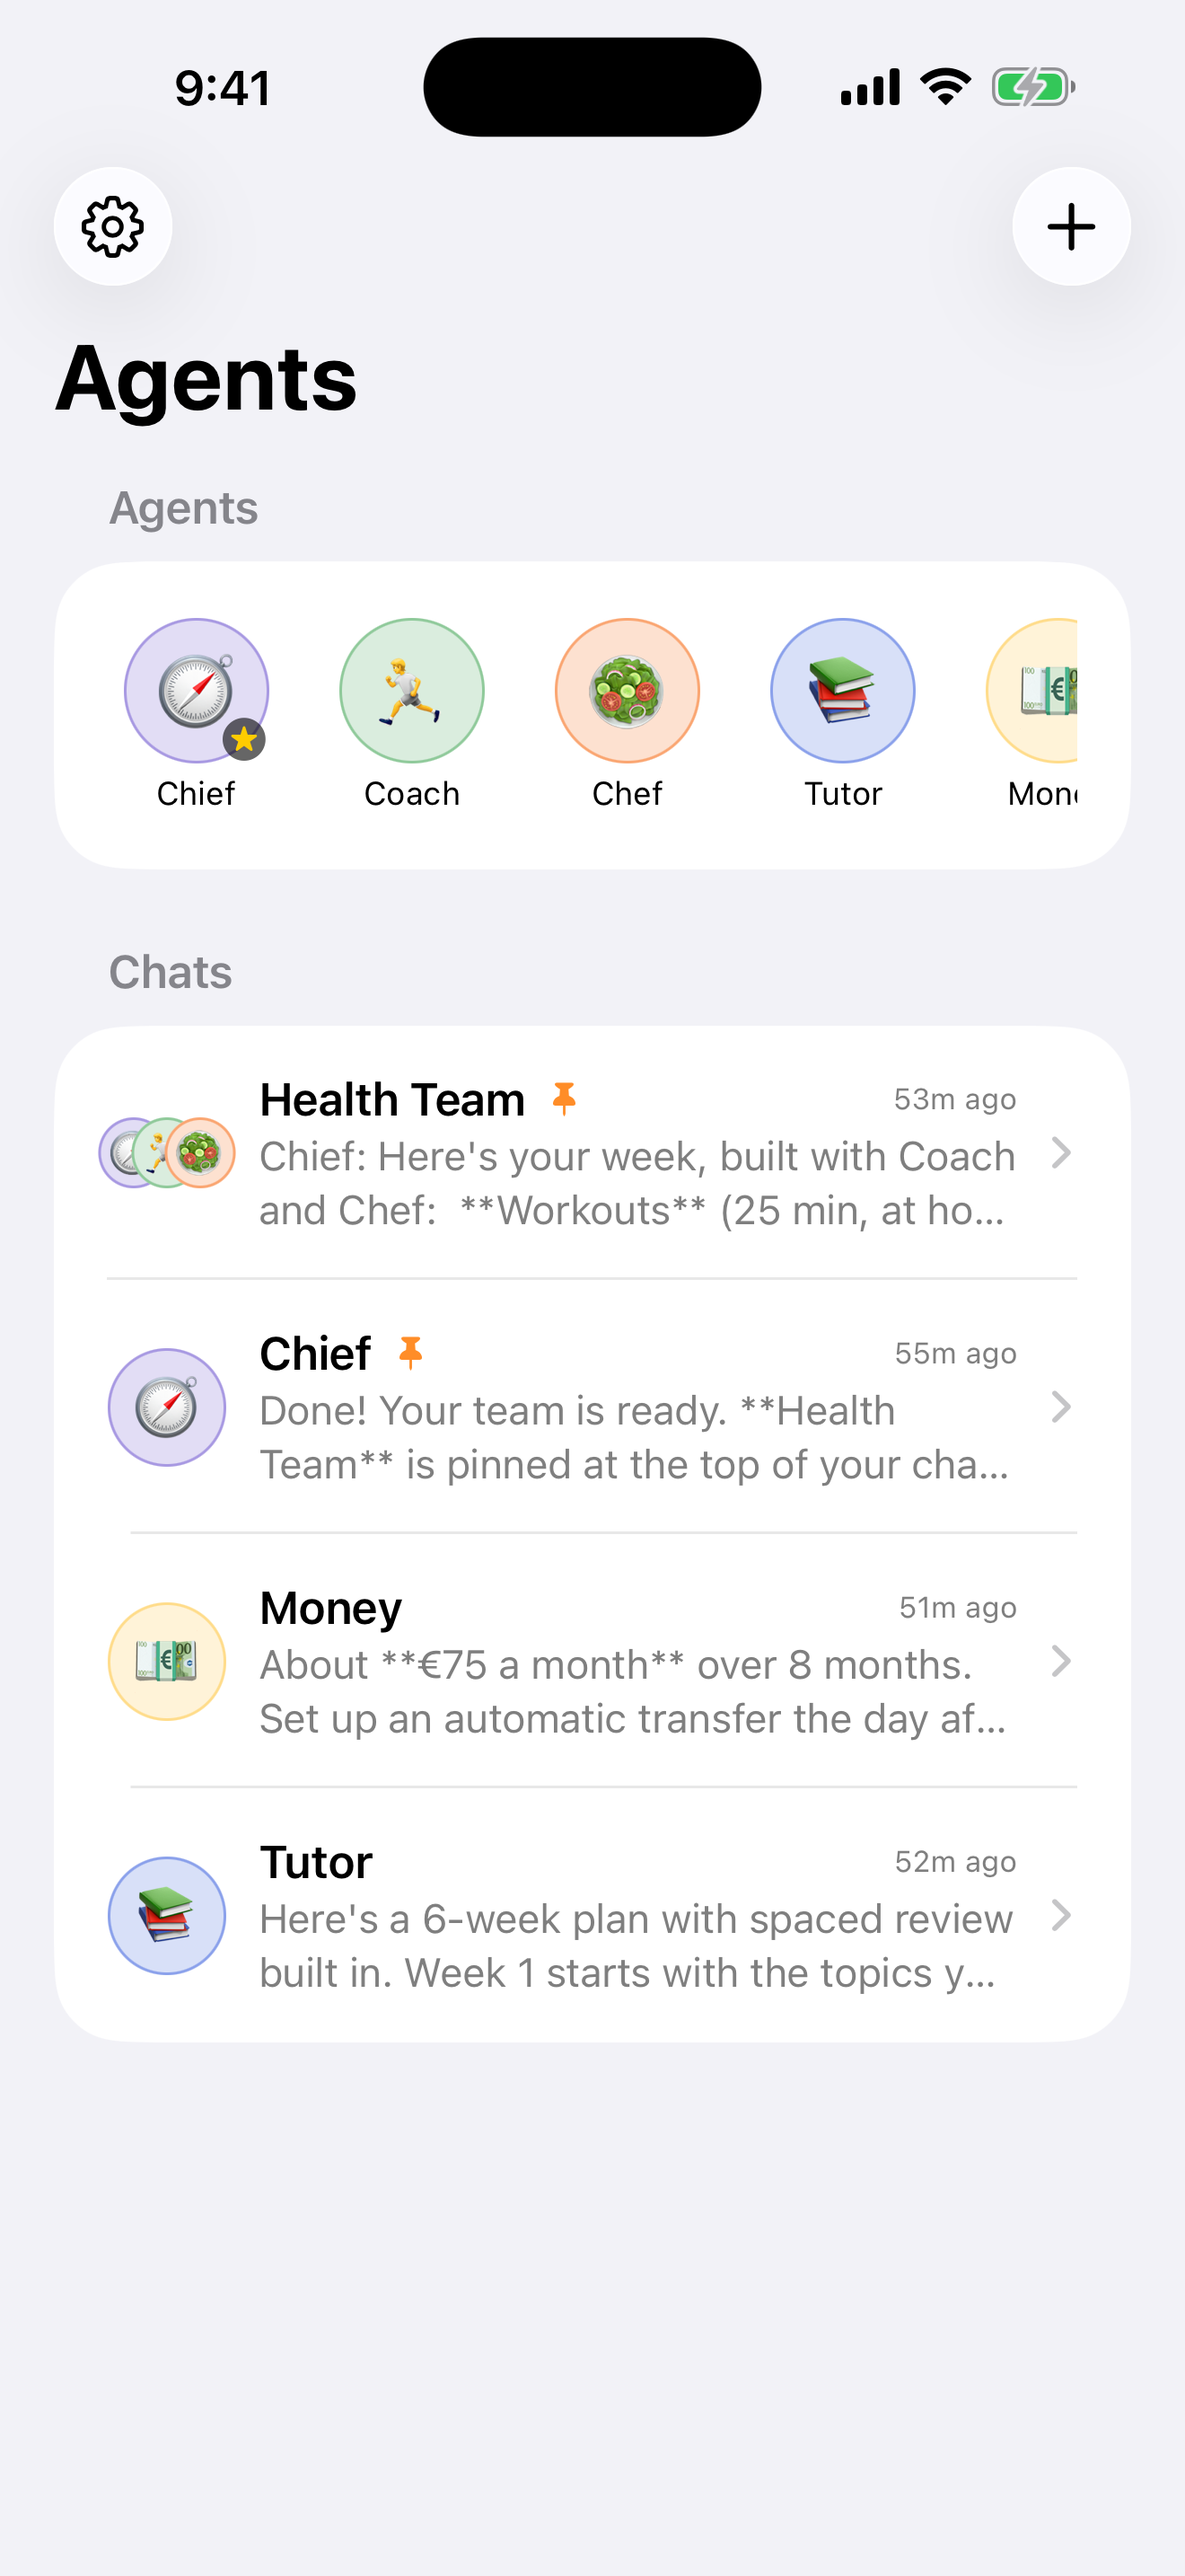
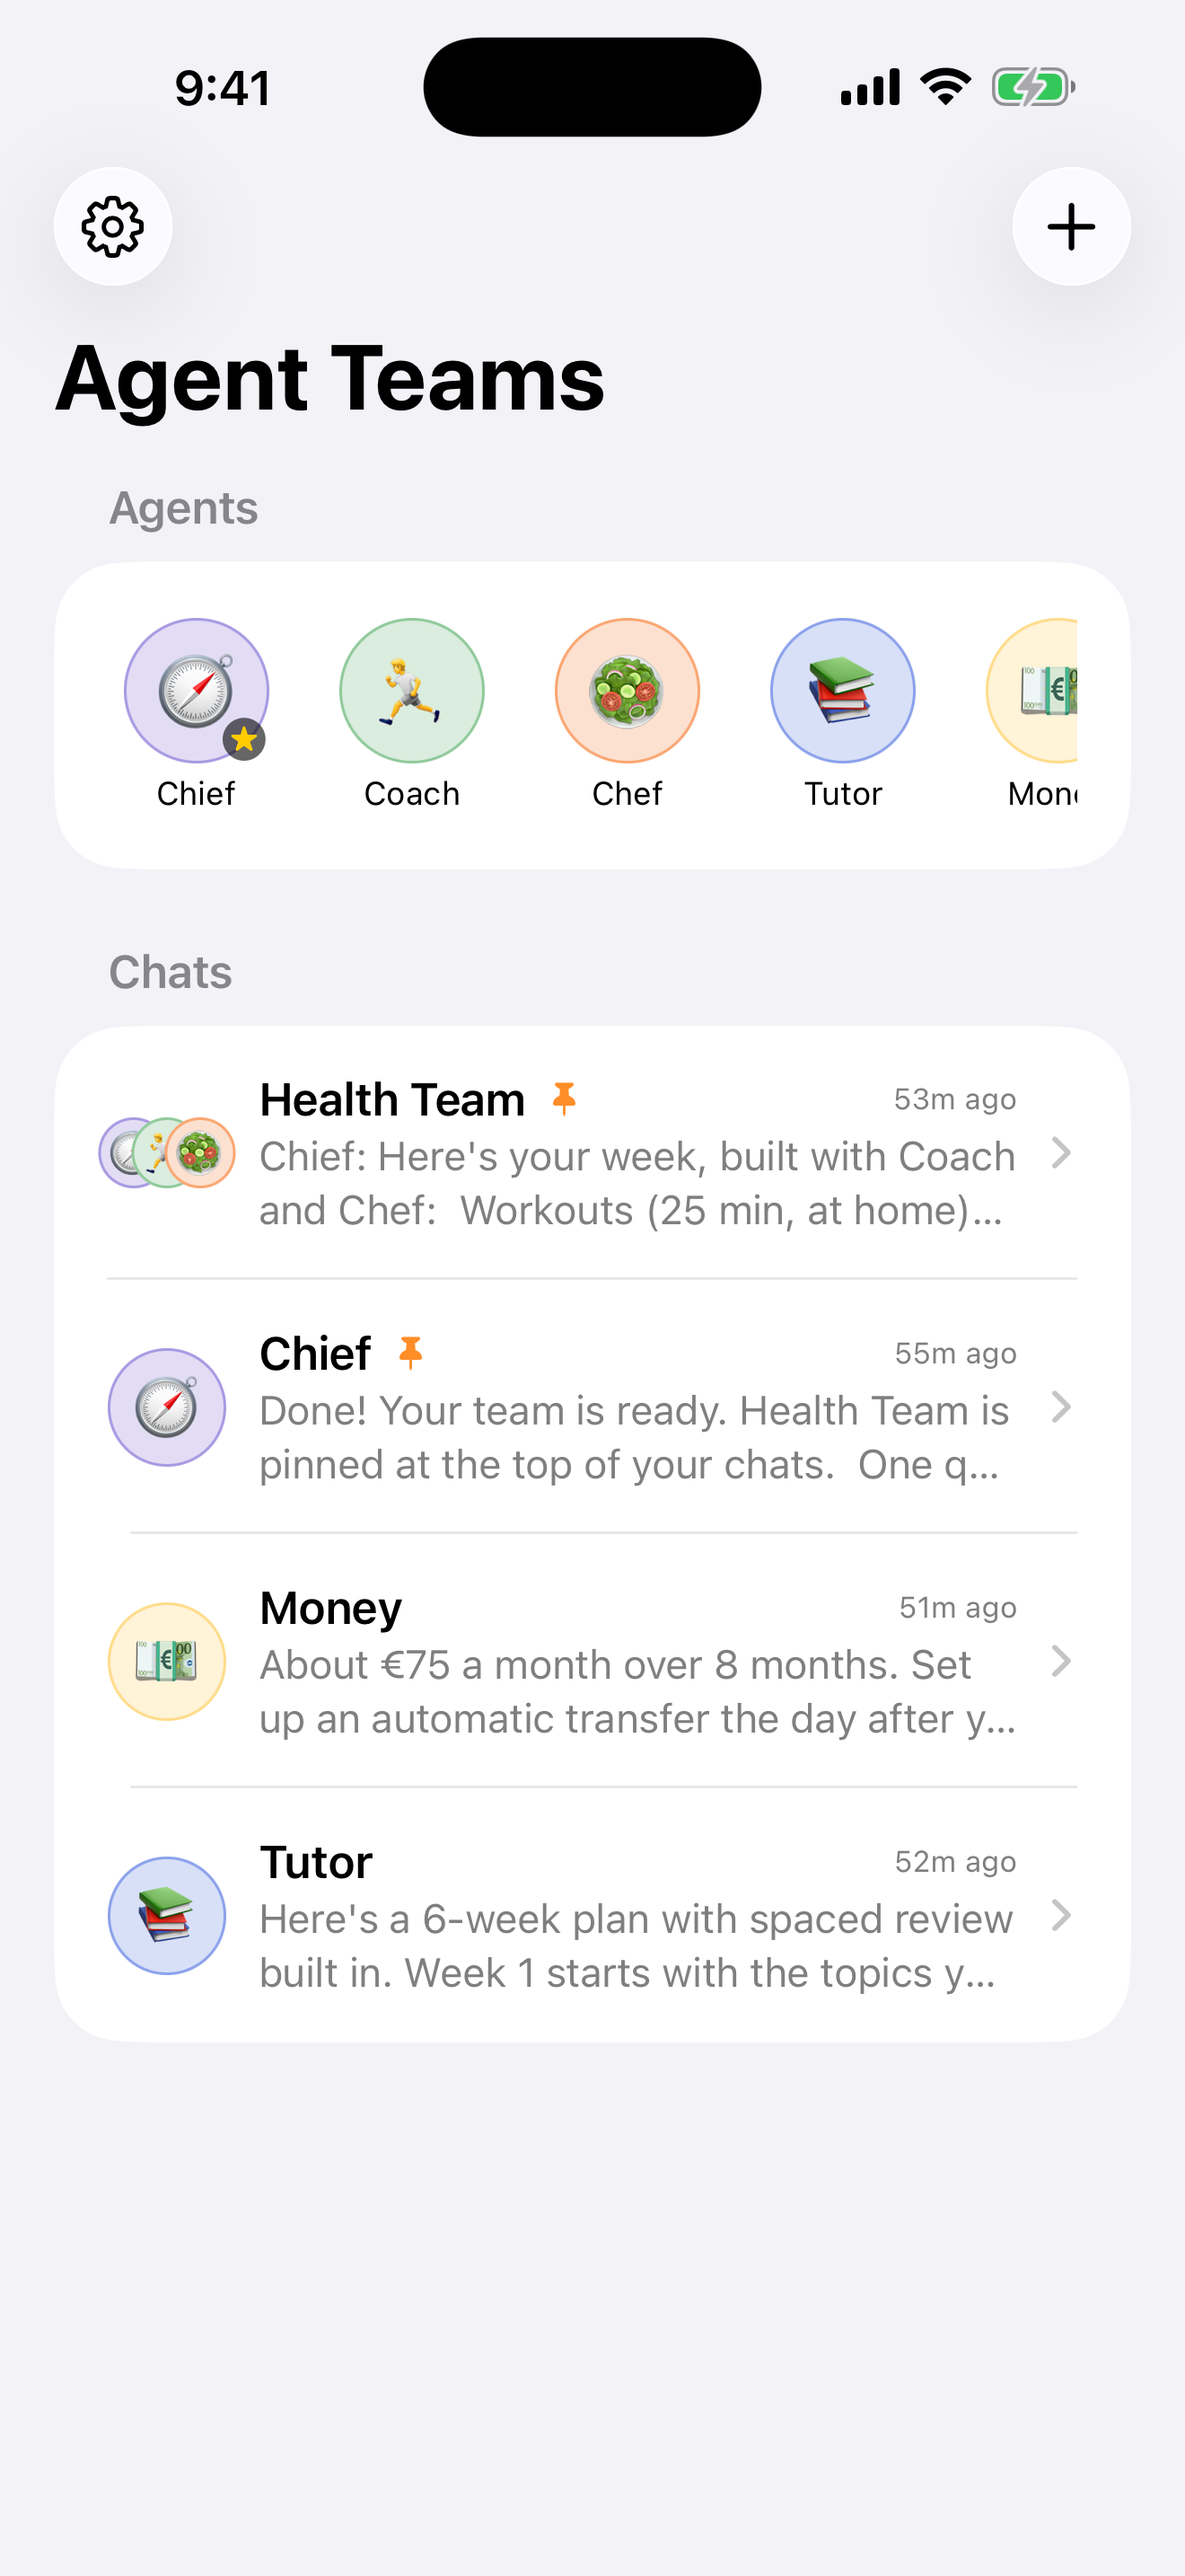
Agents: rename to Agent Teams

diff --git a/apps/Agents/site/public/privacy.html b/apps/Agents/site/public/privacy.html
@@ -3,8 +3,8 @@
 <head>
 <meta charset="utf-8">
 <meta name="viewport" content="width=device-width, initial-scale=1">
-<title>Privacy Policy · Agents</title>
-<meta name="description" content="Privacy policy for the Agents app for iPhone, iPad and Mac by Pep Secanell.">
+<title>Privacy Policy · Agent Teams</title>
+<meta name="description" content="Privacy policy for the Agent Teams app for iPhone, iPad and Mac by Pep Secanell.">
 <style>
   :root { --ground:#F6F5FA; --ink:#16131F; --muted:#5B5868; --accent:#5B45B8; --line:#DEDAEA; --card:#FFFFFF; }
   * { box-sizing:border-box; }
@@ -31,13 +31,13 @@
 </head>
 <body>
 <header class="topbar">
-  <a class="home" href="/">🧭 Agents</a>
+  <a class="home" href="/">🧭 Agent Teams</a>
   <a class="back" href="/">Home</a>
 </header>
 <main>
   <header>
     <h1>Privacy Policy</h1>
-    <p>Agents for iPhone, iPad and Mac · Effective 3 October 2026</p>
+    <p>Agent Teams for iPhone, iPad and Mac · Effective 3 October 2026</p>
   </header>
 
   <div class="summary">
@@ -50,10 +50,10 @@
   </div>
 
   <h2>Who is responsible</h2>
-  <p>Agents is made by Pep Secanell, an independent developer based in Spain. For the purposes of the EU General Data Protection Regulation (GDPR), I am the data controller for anything this policy covers. You can reach me at <a href="mailto:keoly.app@gmail.com">keoly.app@gmail.com</a>.</p>
+  <p>Agent Teams is made by Pep Secanell, an independent developer based in Spain. For the purposes of the EU General Data Protection Regulation (GDPR), I am the data controller for anything this policy covers. You can reach me at <a href="mailto:keoly.app@gmail.com">keoly.app@gmail.com</a>.</p>
 
   <h2>What I collect</h2>
-  <p>Nothing. Agents has no sign-in, no user accounts of mine, no analytics, no advertising, no crash-reporting services and no third-party tracking code. There is no server of mine involved in using the app.</p>
+  <p>Nothing. Agent Teams has no sign-in, no user accounts of mine, no analytics, no advertising, no crash-reporting services and no third-party tracking code. There is no server of mine involved in using the app.</p>
 
   <h2>What the app stores, and where</h2>
   <p>The app stores your agents (their names, instructions and settings), your chats, and the facts saved in "About me". This data lives:</p>
@@ -80,10 +80,10 @@
   <p>Any AI costs are billed to you by your provider. The app itself is free.</p>
 
   <h2>Health, money and other advice</h2>
-  <p>Agents is a general-purpose AI assistant. Its answers can be wrong and are not medical, legal or financial advice. Talk to a qualified professional for decisions that matter.</p>
+  <p>Agent Teams is a general-purpose AI assistant. Its answers can be wrong and are not medical, legal or financial advice. Talk to a qualified professional for decisions that matter.</p>
 
   <h2>Children</h2>
-  <p>Agents is not aimed at children. Because it has no accounts and I collect no data, I don't knowingly collect data from anyone, including children. AI providers set their own minimum ages; please check their terms.</p>
+  <p>Agent Teams is not aimed at children. Because it has no accounts and I collect no data, I don't knowingly collect data from anyone, including children. AI providers set their own minimum ages; please check their terms.</p>
 
   <h2>Your rights and deleting your data</h2>
   <p>Under the GDPR you have the right to access, correct, delete, restrict or object to the processing of your personal data, and to data portability. Since I don't hold any data about you, there is normally nothing for me to hand over or delete. In practice:</p>
@@ -99,7 +99,7 @@
 
   <footer>
     <a href="/support.html">Support</a><a href="mailto:keoly.app@gmail.com">keoly.app@gmail.com</a>
-    <p>Agents · © 2026 Pep Secanell</p>
+    <p>Agent Teams · © 2026 Pep Secanell</p>
   </footer>
 </main>
 </body>

diff --git a/apps/Agents/site/public/support.html b/apps/Agents/site/public/support.html
@@ -3,8 +3,8 @@
 <head>
 <meta charset="utf-8">
 <meta name="viewport" content="width=device-width, initial-scale=1">
-<title>Support · Agents</title>
-<meta name="description" content="Help and support for the Agents app for iPhone, iPad and Mac by Pep Secanell.">
+<title>Support · Agent Teams</title>
+<meta name="description" content="Help and support for the Agent Teams app for iPhone, iPad and Mac by Pep Secanell.">
 <style>
   :root { --ground:#F6F5FA; --ink:#16131F; --muted:#5B5868; --accent:#5B45B8; --line:#DEDAEA; --card:#FFFFFF; }
   * { box-sizing:border-box; }
@@ -31,17 +31,17 @@
 </head>
 <body>
 <header class="topbar">
-  <a class="home" href="/">🧭 Agents</a>
+  <a class="home" href="/">🧭 Agent Teams</a>
   <a class="back" href="/">Home</a>
 </header>
 <main>
   <header>
     <h1>Support</h1>
-    <p>Agents for iPhone, iPad and Mac</p>
+    <p>Agent Teams for iPhone, iPad and Mac</p>
   </header>
 
   <div class="summary">
-    <p><strong>Need help?</strong> Email <a href="mailto:keoly.app@gmail.com?subject=Agents%20support">keoly.app@gmail.com</a>. I usually reply within two days.</p>
+    <p><strong>Need help?</strong> Email <a href="mailto:keoly.app@gmail.com?subject=Agent%20Teams%20support">keoly.app@gmail.com</a>. I usually reply within two days.</p>
   </div>
 
   <h2>Getting started</h2>
@@ -62,7 +62,7 @@
 
   <footer>
     <a href="/privacy.html">Privacy Policy</a><a href="/support.html">Support</a><a href="mailto:keoly.app@gmail.com">keoly.app@gmail.com</a>
-    <p>Agents · © 2026 Pep Secanell</p>
+    <p>Agent Teams · © 2026 Pep Secanell</p>
   </footer>
 </main>
 </body>

diff --git a/apps/Agents/site/public/index.html b/apps/Agents/site/public/index.html
@@ -3,8 +3,8 @@
 <head>
 <meta charset="utf-8">
 <meta name="viewport" content="width=device-width, initial-scale=1">
-<title>Agents · Your own team of AI agents</title>
-<meta name="description" content="Agents: build your own team of AI agents on iPhone, iPad and Mac, with your own key from any AI provider.">
+<title>Agent Teams · Your own team of AI agents</title>
+<meta name="description" content="Agent Teams: build your own team of AI agents on iPhone, iPad and Mac, with your own key from any AI provider.">
 <style>
   :root { --ground:#F6F5FA; --ink:#16131F; --muted:#5B5868; --accent:#5B45B8; --line:#DEDAEA; --card:#FFFFFF; }
   * { box-sizing:border-box; }
@@ -31,7 +31,7 @@
 </head>
 <body>
 <header class="topbar">
-  <a class="home" href="/">🧭 Agents</a>
+  <a class="home" href="/">🧭 Agent Teams</a>
   <a class="back" href="/">Home</a>
 </header>
 <main>
@@ -51,7 +51,7 @@
   </ul>
   <footer>
     <a href="/privacy.html">Privacy Policy</a><a href="/support.html">Support</a><a href="mailto:keoly.app@gmail.com">keoly.app@gmail.com</a>
-    <p>Agents · © 2026 Pep Secanell</p>
+    <p>Agent Teams · © 2026 Pep Secanell</p>
   </footer>
 </main>
 </body>

diff --git a/apps/Agents/Agents/Services/AgentEngine.swift b/apps/Agents/Agents/Services/AgentEngine.swift
@@ -510,7 +510,7 @@ final class AgentEngine {
         let instructions = agent.instructions.trimmingCharacters(in: .whitespacesAndNewlines)
         parts.append(instructions.isEmpty ? "You are \(agent.name), a helpful specialist agent." : instructions)
 
-        var howYouWork = "# How you work\nYou are \"\(agent.name)\", one of the user's personal AI agents in the Agents app."
+        var howYouWork = "# How you work\nYou are \"\(agent.name)\", one of the user's personal AI agents in the Agent Teams app."
         if agent.isMain {
             howYouWork += " You are the MAIN agent, the user's chief of staff: coordinate the team, consult specialists (several at once when useful) and merge their input into one clear answer or plan."
             howYouWork += """

diff --git a/apps/Agents/Agents/Services/OpenAICompatClient.swift b/apps/Agents/Agents/Services/OpenAICompatClient.swift
@@ -17,7 +17,7 @@ struct OpenAICompatClient {
         request.setValue("application/json", forHTTPHeaderField: "content-type")
         request.setValue("Bearer \(apiKey)", forHTTPHeaderField: "Authorization")
         if provider == .openrouter {
-            request.setValue("Agents", forHTTPHeaderField: "X-Title")
+            request.setValue("Agent Teams", forHTTPHeaderField: "X-Title")
         }
         request.httpBody = try JSONSerialization.data(withJSONObject: Self.translate(body))
 

diff --git a/apps/Agents/Agents/Views/RootView.swift b/apps/Agents/Agents/Views/RootView.swift
@@ -123,7 +123,7 @@ struct HomeView: View {
                 }
             }
         }
-        .navigationTitle("Agents")
+        .navigationTitle("Agent Teams")
         .toolbar {
             ToolbarItem(placement: .primaryAction) {
                 Menu {

diff --git a/apps/Agents/generate_project.rb b/apps/Agents/generate_project.rb
@@ -54,7 +54,7 @@ target.build_configurations.each do |config|
   s['ENABLE_PREVIEWS'] = 'YES'
   s['GENERATE_INFOPLIST_FILE'] = 'YES'
   s['INFOPLIST_FILE'] = 'Agents/Info.plist'
-  s['INFOPLIST_KEY_CFBundleDisplayName'] = 'Agents'
+  s['INFOPLIST_KEY_CFBundleDisplayName'] = 'Agent Teams'
   s['INFOPLIST_KEY_LSApplicationCategoryType'] = 'public.app-category.productivity'
   # Only HTTPS to AI providers: exempt from export-compliance paperwork.
   s['INFOPLIST_KEY_ITSAppUsesNonExemptEncryption'] = 'NO'

diff --git a/apps/Agents/store/listing.md b/apps/Agents/store/listing.md
@@ -1,4 +1,4 @@
-# Agents: App Store Connect listing
+# Agent Teams: App Store Connect listing
 
 Bundle ID `com.keoly.agents` · Team 2KTZ966L7U · Platforms: iOS (iPhone + iPad) and macOS, one universal purchase
 Prepared 2026-10-03. Version 1.0 (build 1).
@@ -7,7 +7,7 @@ Prepared 2026-10-03. Version 1.0 (build 1).
 
 | Field | Value |
 |---|---|
-| Name (30 max) | Agents – AI Team |
+| Name (30 max) | Agent Teams |
 | Subtitle (30 max) | Your own team of AI agents |
 | Primary category | Productivity |
 | Secondary category | Utilities |
@@ -25,7 +25,7 @@ Chat with Chief, your main agent, and it builds you a team of specialist AI agen
 
 ## Description
 
-Agents gives you your own team of AI agents on iPhone, iPad and Mac.
+Agent Teams gives you your own team of AI agents on iPhone, iPad and Mac.
 
 Start by talking to Chief, your main agent. Tell it what you want help with, like your health, your studies, your business or a side project. Chief asks a few questions, proposes a team of specialists, and creates them for you. Each agent has its own instructions, personality and model, and you can change any of it by asking Chief or by editing the agent yourself.
 
@@ -53,7 +53,7 @@ PRIVATE BY DESIGN
 • Your messages go straight from your device to the AI provider you chose, never through the developer's servers
 • The app asks for your permission before sending anything to a provider
 
-Answers come from AI and can be wrong. Agents is not a substitute for professional medical, legal or financial advice.
+Answers come from AI and can be wrong. Agent Teams is not a substitute for professional medical, legal or financial advice.
 
 ## Keywords (100 max, comma separated)
 

diff --git a/apps/Agents/store/review-notes.md b/apps/Agents/store/review-notes.md
@@ -4,7 +4,7 @@ Sign-in required: NO (the app has no accounts).
 
 ---
 
-Agents is a free chat app for your own team of AI agents. It has no accounts, no in-app purchases and no server of ours: it calls AI providers directly with an API key the user supplies from their own provider account (bring-your-own-key). The user pays their provider directly. We do not sell anything, and the app does not link to any purchase.
+Agent Teams is a free chat app for your own team of AI agents. It has no accounts, no in-app purchases and no server of ours: it calls AI providers directly with an API key the user supplies from their own provider account (bring-your-own-key). The user pays their provider directly. We do not sell anything, and the app does not link to any purchase.
 
 HOW TO TEST
 1. Open the app and tap the gear (Settings) › Anthropic (Claude).

diff --git a/apps/Agents/README.md b/apps/Agents/README.md
@@ -1,6 +1,8 @@
-# Agents
+# Agent Teams
 
-A native iPhone + Mac app for your own team of AI agents, modelled on xAI's **Grok Bot**. It runs on Claude.
+> App Store name: **Agent Teams**. The Xcode project, target and bundle id (`com.keoly.agents`) keep the internal name "Agents".
+
+A native iPhone + Mac app for your own team of AI agents, modelled on xAI's **Grok Bot**. It runs on your own key from Anthropic, OpenAI, Google Gemini, xAI, OpenRouter, Mistral, DeepSeek or Groq.
 
 - **Agents (bots):** each has a name, emoji avatar, color, label (Health, YouTube…), specialty and its own instructions. Create as many as you want. **Write with AI** drafts the instructions from one sentence.
 - **Main agent:** your chief of staff (by default **Don't Die**). It leads group chats and coordinates the specialists.

diff --git a/apps/Agents/store/app-privacy-answers.md b/apps/Agents/store/app-privacy-answers.md
@@ -1,4 +1,4 @@
-# Agents: App Privacy answers (App Store Connect › App Privacy)
+# Agent Teams: App Privacy answers (App Store Connect › App Privacy)
 
 Prepared 2026-10-03, matching the 1.0 code.
 
